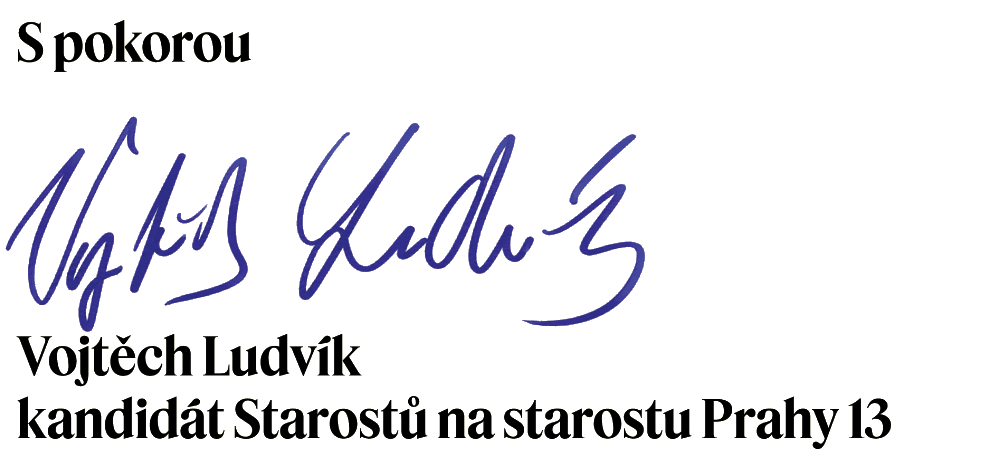
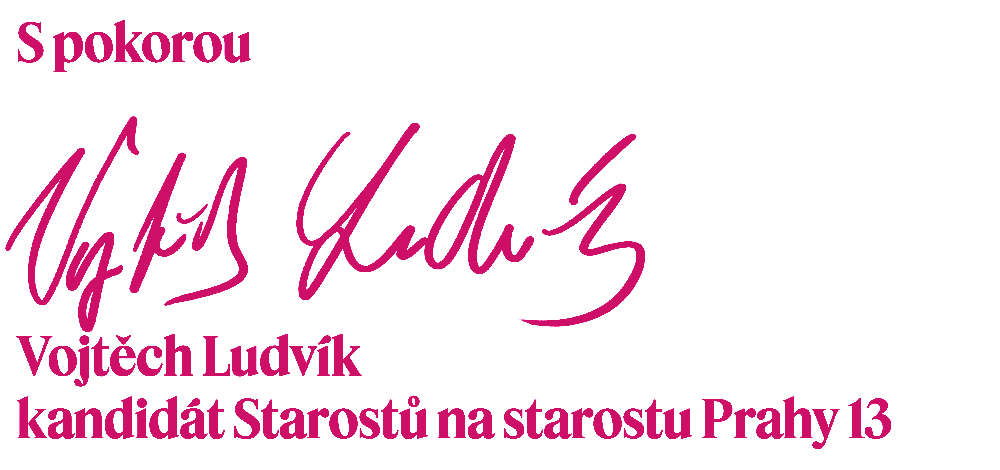
Refine signature block styling

diff --git a/styles.css b/styles.css
@@ -638,9 +638,9 @@ h3 {
 .election-cta__portrait .election-cta__signature {
   position: absolute;
   z-index: 2;
-  left: -38%;
-  bottom: 54px;
-  width: 390px;
+  left: -43%;
+  bottom: 58px;
+  width: 270px;
   height: auto;
   object-fit: contain;
 }
